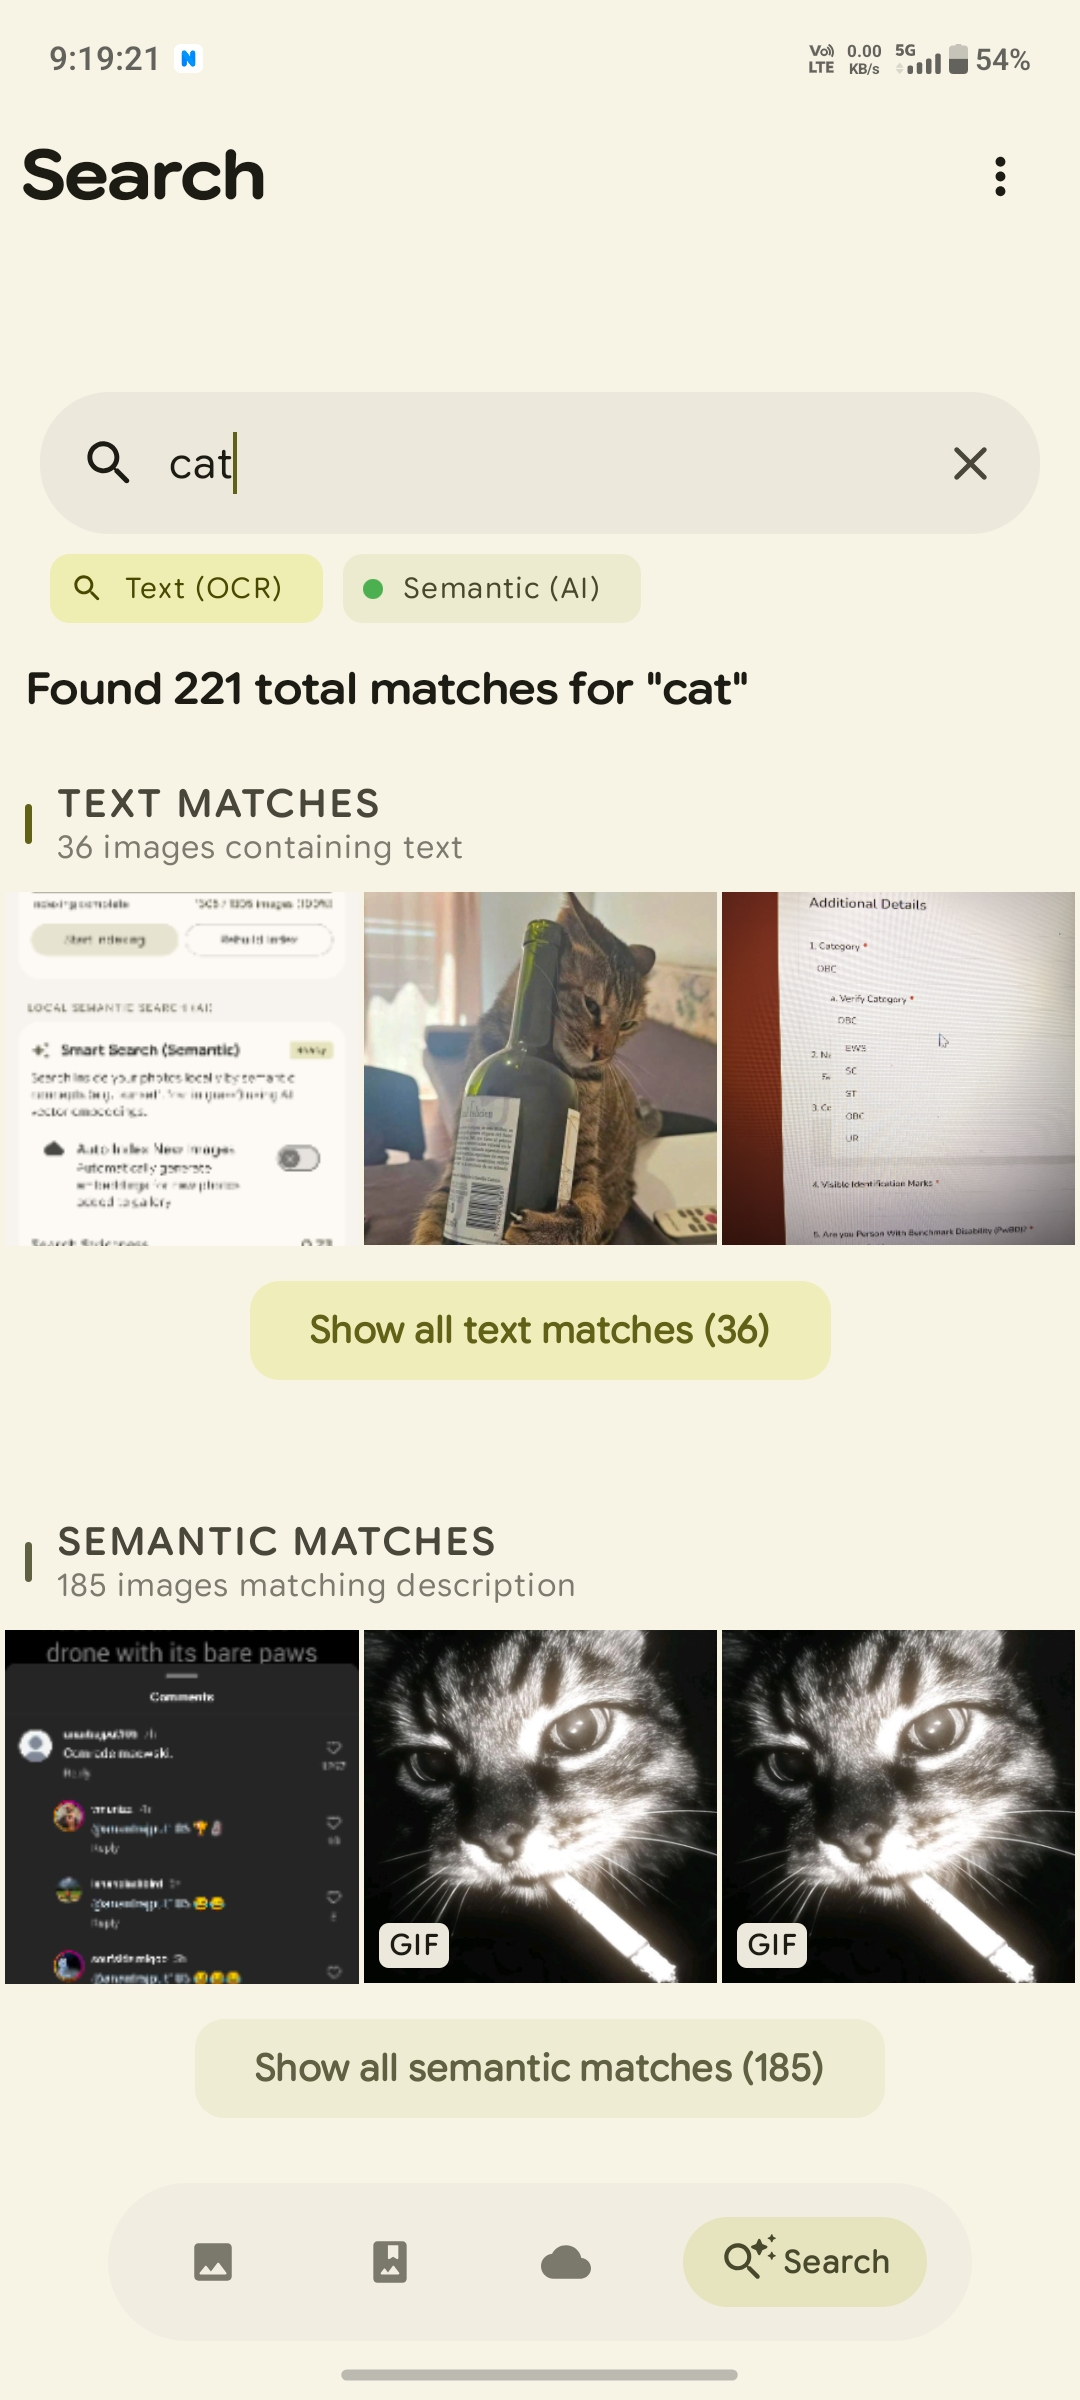
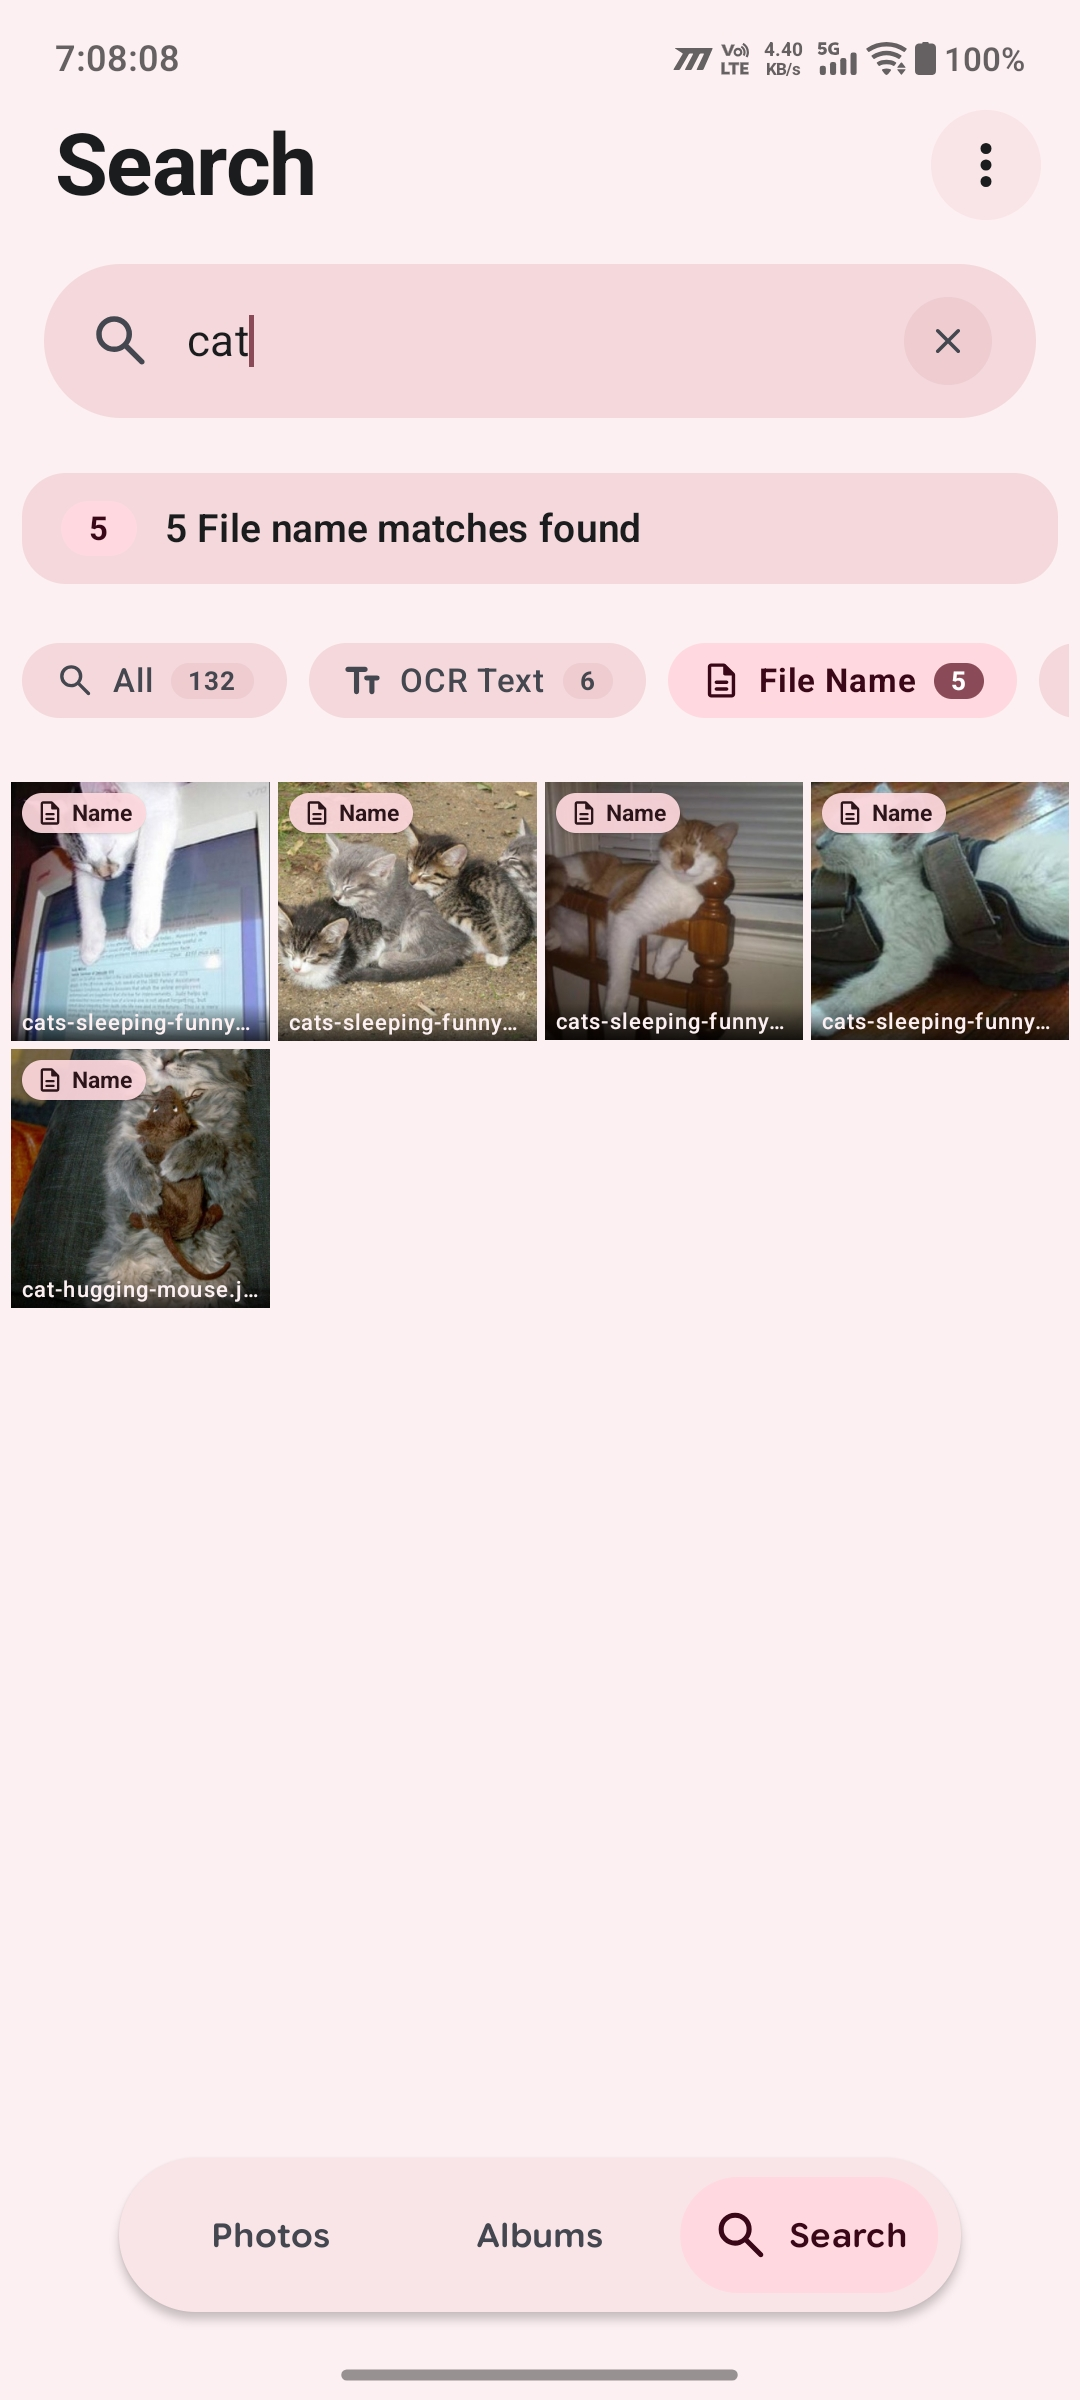
update app screenshots

diff --git a/README.md b/README.md
@@ -38,7 +38,7 @@
 
 | Smart Search | Collage | Settings |
 |:---:|:---:|:---:|
-| <img src="screenshots/06-search.jpg" width="180" /> | <img src="screenshots/07-collage.jpg" width="180" /> | <img src="screenshots/08-settings.jpg?v=2" width="180" /> |
+| <img src="screenshots/06-search.jpg?v=2" width="180" /> | <img src="screenshots/07-collage.jpg" width="180" /> | <img src="screenshots/08-settings.jpg?v=3" width="180" /> |
 
 ---
 
